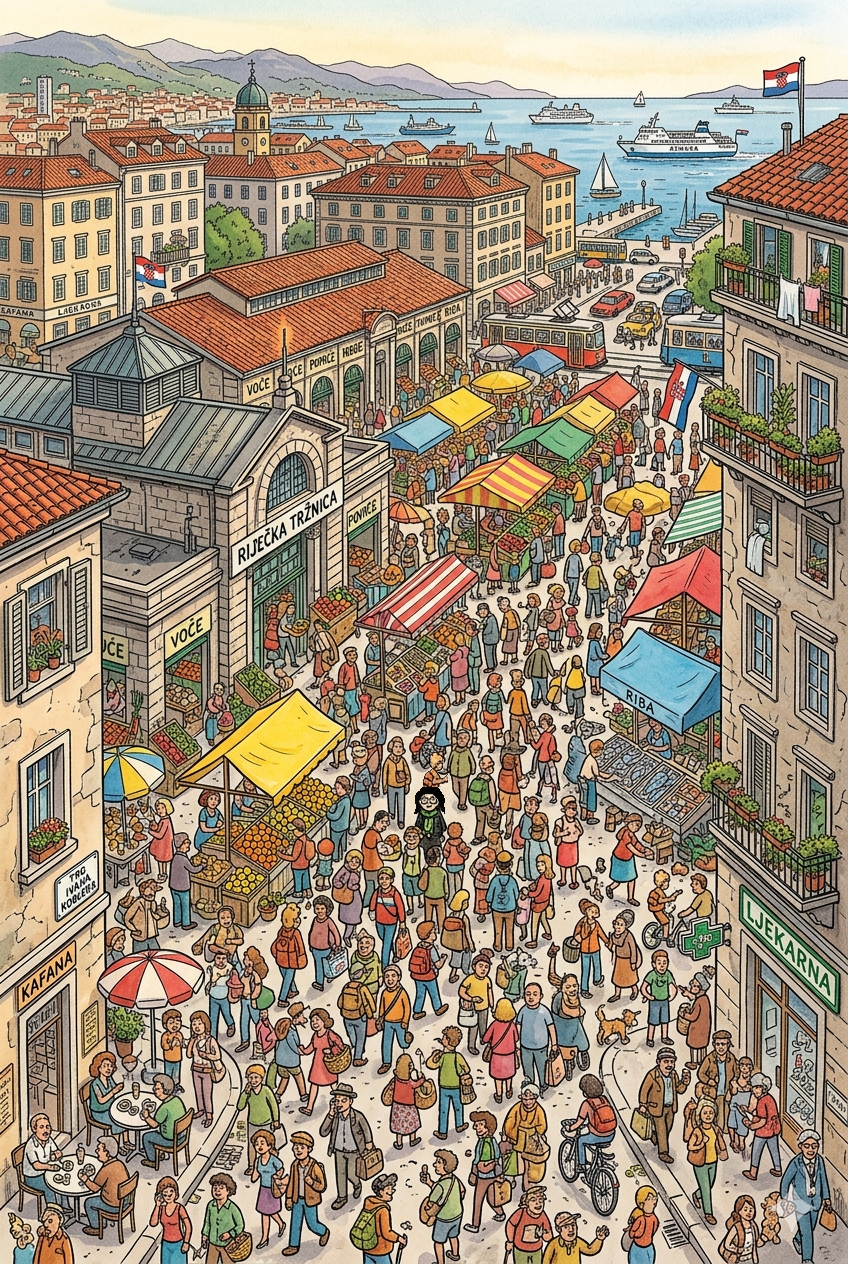
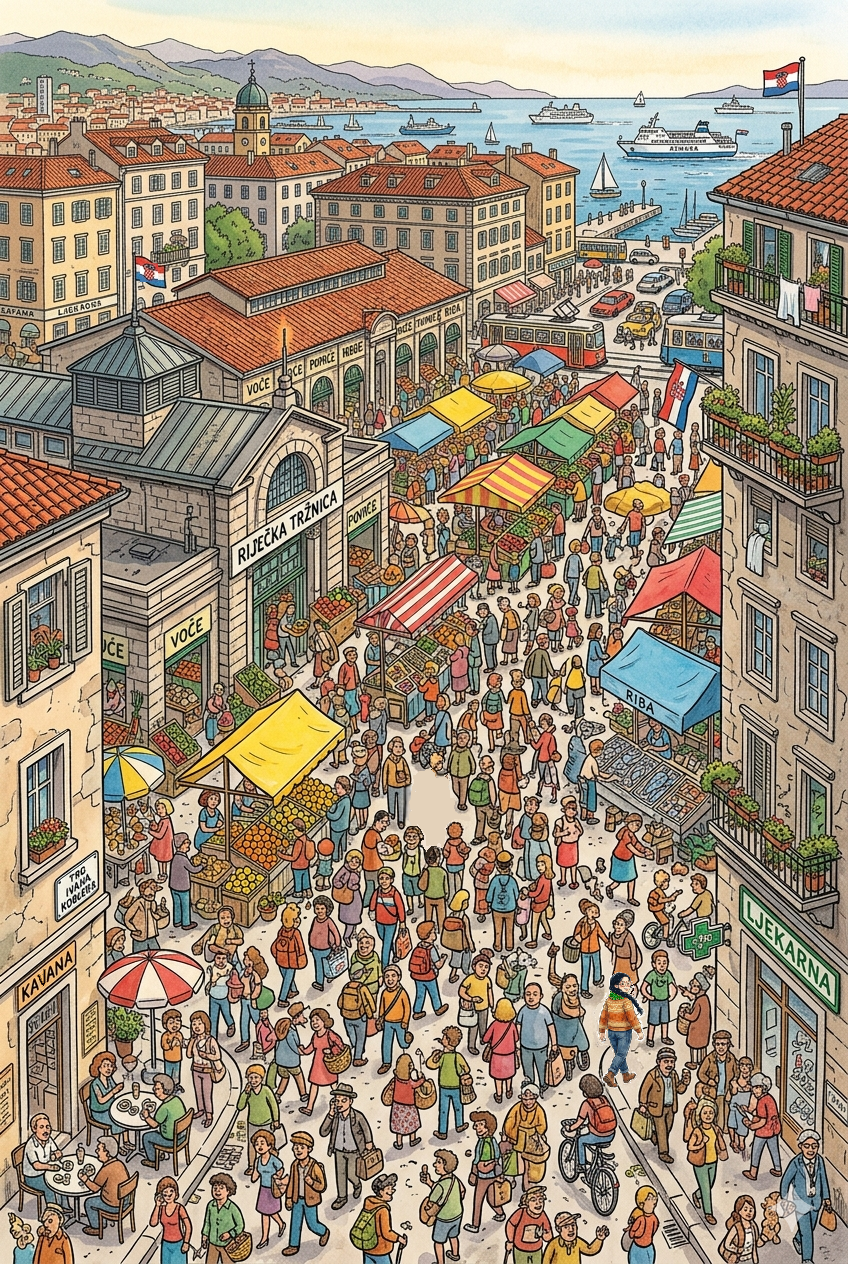
sitne izmjene na slikama i koordinatama

Changed region(s): [[0.7052, 0.7714, 0.7665, 0.8639], [0.4599, 0.5862, 0.5519, 0.6788]]

diff --git a/stranice/djdj5.html b/stranice/djdj5.html
@@ -42,7 +42,7 @@
 
       <img
 		class="bo"
-        src="../slike/djuro-u-Parizu.png"
+        src="../slike/djuro-u-Parizu.jpg"
         usemap="#djuro-map"
         alt="Pronađi Đuru"
         style="width: min(95vw, 900px); display: block;"
@@ -51,7 +51,7 @@
       <map name="djuro-map">
         <area
           shape="rect"
-		  coords="241,775,305,899"
+		  coords="391,849,455,1059"
 		  href="javascript:void(0);"
           onclick="pronadjeni()"
 		  class="yaay"

diff --git a/stranice/nestima8.html b/stranice/nestima8.html
@@ -38,7 +38,7 @@
 
       <img
 		class="bo"
-        src="../slike/slonis-Gemini_Generated_Image_ewps4fewps4fewps.png"
+        src="../slike/slonic-Gemini_Generated_Image_ewps4fewps4fewps.png"
         usemap="#djuro-map"
         alt="Ovdje nešto ne štima"
         style="width: min(95vw, 900px); display: block;"

diff --git a/stranice/djdj2.html b/stranice/djdj2.html
@@ -52,7 +52,7 @@
       <map name="djur-map"> 
         <area 
           shape="rect"
-		  coords="461,1196,418,1140"
+		  coords="381,1106,438,1240"
 		  href="javascript:void(0);"
           onclick="pronadjeni()"
 		  class="yaay"

diff --git a/stranice/djdj9.html b/stranice/djdj9.html
@@ -51,7 +51,7 @@
       <map name="djuro-map">
         <area
           shape="rect"
-		  coords="103,1040,141,1130"
+		  coords="740,1239,821,1350"
 		  href="javascript:void(0);"
           onclick="pronadjeni()"
 		  class="yaay"

diff --git a/stranice/djdj3.html b/stranice/djdj3.html
@@ -51,7 +51,7 @@
       <map name="djuro-map">
         <area
           shape="rect"
-		  coords="999,1027,773,761"
+		  coords="773,707,844,902"
 		  href="javascript:void(0);"
           onclick="pronadjeni()"
 		  class="yaay"

diff --git a/stranice/djdj4.html b/stranice/djdj4.html
@@ -51,7 +51,7 @@
       <map name="djur-map">
         <area
           shape="rect"
-		  coords="382,867,342,783"
+		  coords="46,1222,112,1383"
 		  href="javascript:void(0);"
           onclick="pronadjeni()"
 		  class="yaay"

diff --git a/stranice/djdj6.html b/stranice/djdj6.html
@@ -51,7 +51,7 @@
       <map name="djur-map">
         <area
           shape="rect"
-		  coords="432,799,478,882"
+		  coords="602,999,678,1132"
 		  href="javascript:void(0);"
           onclick="pronadjeni()"
 		  class="yaay"

diff --git a/stranice/djdj7.html b/stranice/djdj7.html
@@ -51,7 +51,7 @@
       <map name="djuro-map">
         <area
           shape="rect"
-		  coords="231,510,276,575"
+		  coords="231,480,286,555"
 		  href="javascript:void(0);"
           onclick="pronadjeni()"
 		  class="yaay"
